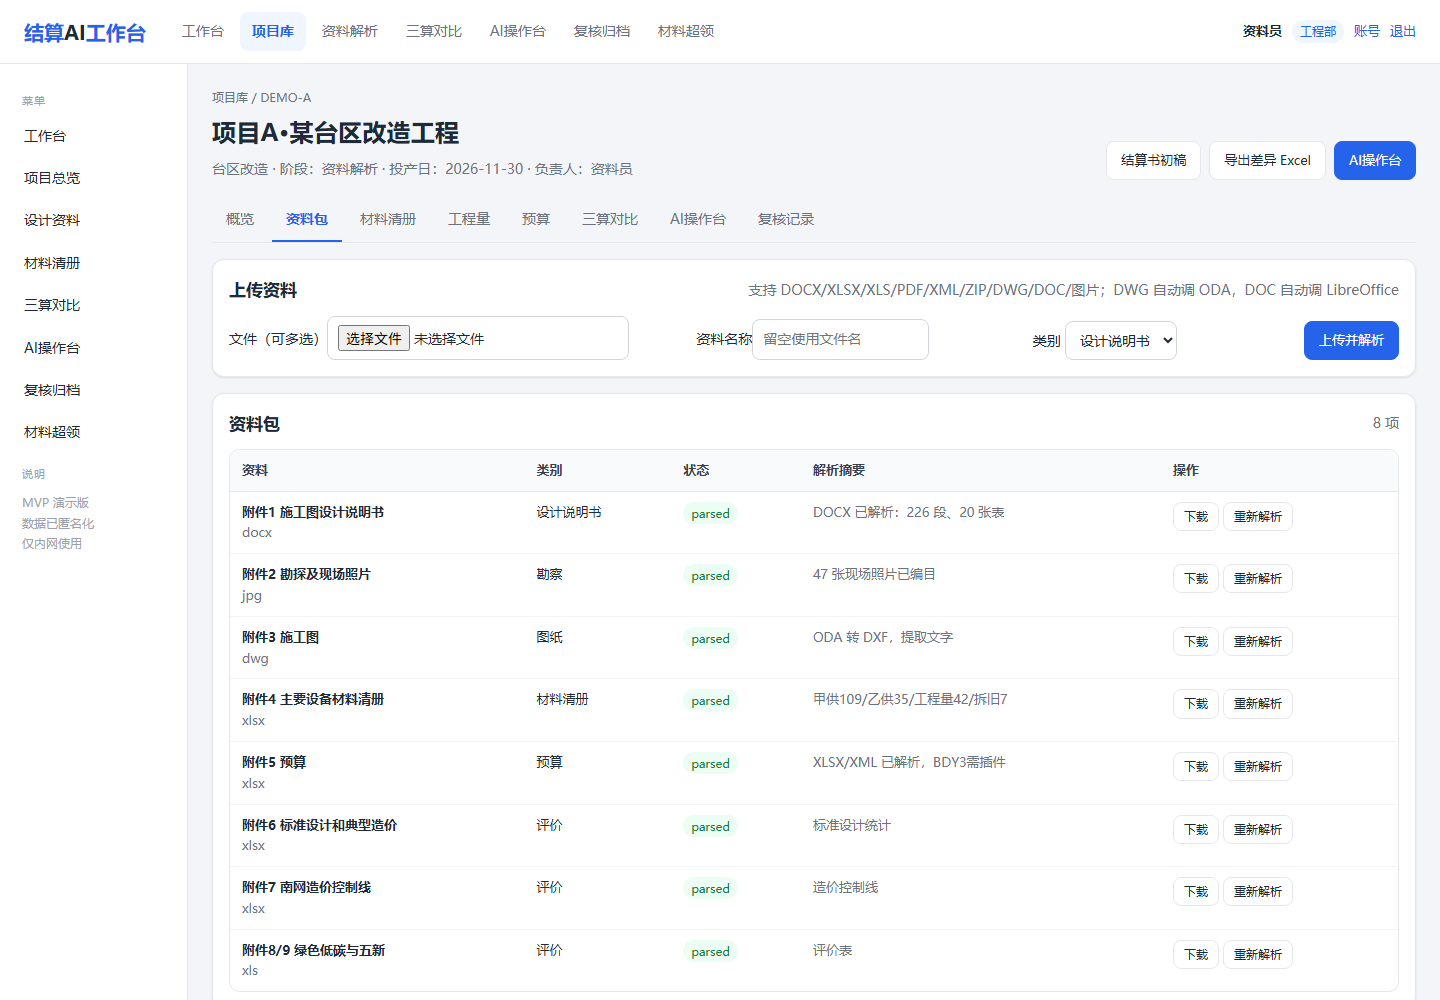
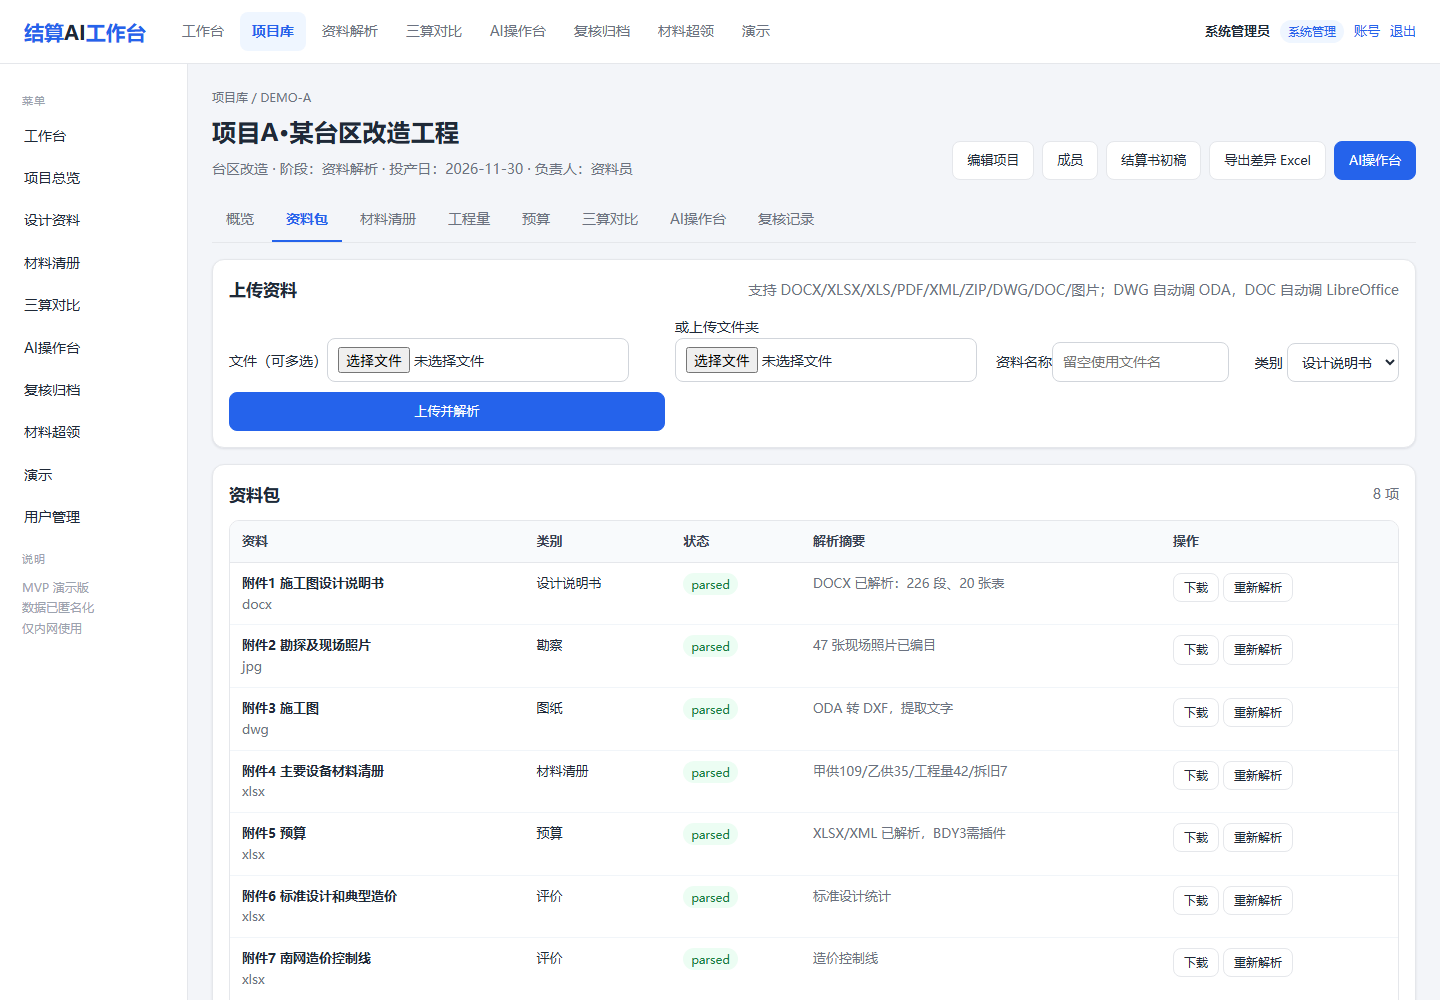
fix(settlement): make the completeness check detailed and support folder upload

diff --git a/apps/settlement-ai-platform/templates/project.html b/apps/settlement-ai-platform/templates/project.html
@@ -66,7 +66,8 @@
 <section class="card">
   <div class="card-head"><h2>上传资料</h2><span class="muted">支持 DOCX/XLSX/XLS/PDF/XML/ZIP/DWG/DOC/图片；DWG 自动调 ODA，DOC 自动调 LibreOffice</span></div>
   <form class="upload-form" method="post" action="/projects/{{ p.id }}/documents" enctype="multipart/form-data">
-    <label>文件（可多选）<input type="file" name="file" multiple required></label>
+    <label>文件（可多选）<input type="file" name="file" multiple></label>
+    <label>或上传文件夹<input type="file" name="folder" webkitdirectory multiple></label>
     <label>资料名称<input name="name" placeholder="留空使用文件名"></label>
     <label>类别
       <select name="category">

diff --git a/apps/settlement-ai-platform/app.py b/apps/settlement-ai-platform/app.py
@@ -228,10 +228,171 @@ def group_issues(rows, key):
     return out
 
 
+def _first_int(text):
+    m = re.search(r"(\d+)", str(text or ""))
+    return int(m.group(1)) if m else None
+
+
+def build_completeness_report(project, profile, docs, materials, boq, budget, compares):
+    """Detailed, deterministic completeness check used when no LLM is configured."""
+    lines = [f"【资料完整性检查】{project['name']}（{project['code']}）", ""]
+    lines.append(f"项目阶段：{project['stage']}｜投产日：{project['t0'] or '未填'}｜检查时间：{now()}")
+    lines.append("")
+
+    expected = [
+        ("附件1", "施工图设计说明书", True),
+        ("附件2", "勘探及现场照片", True),
+        ("附件3", "施工图（DWG）", True),
+        ("附件4", "主要设备材料清册", True),
+        ("附件5", "预算", True),
+        ("附件6", "标准设计和典型造价", False),
+        ("附件7", "南网造价控制线", False),
+        ("附件8", "绿色低碳评价", False),
+        ("附件9", "五新应用评价", False),
+    ]
+    found = {}
+    for prefix, label, required in expected:
+        hit = next((d for d in docs if prefix in (d["name"] or "")), None)
+        if not hit and prefix in ("附件8", "附件9"):
+            hit = next((d for d in docs if "附件8/9" in (d["name"] or "") or "8/9" in (d["name"] or "")), None)
+        found[prefix] = hit
+
+    parsed = sum(1 for d in docs if d["status"] == "parsed")
+    needs = sum(1 for d in docs if d["status"] == "needs_plugin")
+    pending = sum(1 for d in docs if d["status"] == "pending")
+    errors = sum(1 for d in docs if d["status"] == "error")
+    mat_a = sum(1 for m in materials if m["supply"] == "甲供")
+    mat_b = sum(1 for m in materials if m["supply"] == "乙供")
+    budget_total = sum(float(b["amount"] or 0) for b in budget)
+    diff_items = [c for c in compares if c["status"] != "通过"]
+
+    high, mid = [], []
+    for prefix, label, required in expected:
+        d = found[prefix]
+        if not d:
+            (high if required else mid).append((prefix, f"缺少{prefix} {label}", "资料员补齐后重新解析"))
+            continue
+        if d["status"] == "needs_plugin":
+            mid.append((prefix, f"{d['name']} 需要插件：{d['summary'] or ''}", "信息管理员安装插件或改用XLSX/XML导出"))
+        elif d["status"] == "error":
+            high.append((prefix, f"{d['name']} 解析失败：{d['summary'] or ''}", "重新上传或转换格式"))
+        elif d["status"] == "pending":
+            mid.append((prefix, f"{d['name']} 尚未解析", "点击重新解析或上传可读版本"))
+    for key in ("10kV线路", "配变", "低压线路", "拆除"):
+        if not str(profile.get(key) or "").strip():
+            mid.append(("画像", f"项目画像缺少“{key}”", "资料员按设计说明书补录"))
+    if not materials:
+        high.append(("材料", "材料清册为空，无法做材料核对和三算对比", "上传附件4或手工新增后复核"))
+    if not boq:
+        high.append(("工程量", "工程量清单为空，无法生成结算书初稿", "上传附件4工程量清单或手工新增"))
+    if not budget:
+        high.append(("预算", "预算汇总为空，无法做预算/结算对比", "上传附件5预算或手工新增"))
+    if not compares:
+        mid.append(("三算", "尚未建立三算对比", "结算员按设计/预算/结算录入对比项"))
+    elif diff_items:
+        names = "、".join(c["item"] for c in diff_items[:5])
+        mid.append(("三算", f"三算对比有 {len(diff_items)} 项待确认：{names}", "结算员逐条核对原因和依据"))
+    # profile vs imported counts
+    profile_a = _first_int(profile.get("甲供材料"))
+    profile_b = _first_int(profile.get("乙供材料"))
+    profile_q = _first_int(profile.get("工程量清单"))
+    if profile_a is not None and profile_a != mat_a:
+        mid.append(("材料", f"画像写甲供材料 {profile_a} 条，材料库中 {mat_a} 条，需确认是否全量导入", "资料员确认导入范围"))
+    if profile_b is not None and profile_b != mat_b:
+        mid.append(("材料", f"画像写乙供材料 {profile_b} 条，材料库中 {mat_b} 条，需确认是否全量导入", "资料员确认导入范围"))
+    if profile_q is not None and profile_q != len(boq):
+        mid.append(("工程量", f"画像写工程量 {profile_q} 条，工程量库中 {len(boq)} 条，需确认是否全量导入", "资料员确认导入范围"))
+    # budget cross-check
+    m = re.search(r"([0-9]+(?:\.[0-9]+)?)", str(profile.get("预算") or ""))
+    if m and budget_total:
+        try:
+            profile_budget = float(m.group(1)) * 10000
+            if abs(profile_budget - budget_total) / budget_total > 0.01:
+                mid.append(("预算", f"画像预算约 {profile_budget:,.0f} 元，预算库合计 {budget_total:,.0f} 元，差异需确认", "物资/结算员核对预算版本"))
+        except Exception:
+            pass
+    if project["code"].startswith("DEMO") and (profile_a or profile_b or profile_q):
+        lines.append("说明：当前为演示数据，材料/工程量只导入了示例条数；画像中的全量条数与库中条数不一致属正常，真实项目全量导入后应一致。")
+        lines.append("")
+
+    lines.append("一、总体结论")
+    lines.append(f"- 资料 {len(docs)} 项：已解析 {parsed}，需插件 {needs}，待解析 {pending}，失败 {errors}。")
+    lines.append(f"- 材料 {len(materials)} 条（甲供 {mat_a} / 乙供 {mat_b}）；工程量 {len(boq)} 条；预算 {len(budget)} 项，合计 {budget_total:,.0f} 元。")
+    lines.append(f"- 三算对比 {len(compares)} 项，其中 {len(diff_items)} 项待确认。")
+    if high:
+        lines.append(f"- 结论：资料尚不完整，有 {len(high)} 项高优先级问题，暂不建议提交复核。")
+    elif mid:
+        lines.append(f"- 结论：资料基本齐全，可进入三算对比/复核，但有 {len(mid)} 项提醒需处理。")
+    else:
+        lines.append("- 结论：资料齐全，可提交复核。")
+    lines.append("")
+
+    lines.append("二、附件清单检查")
+    for prefix, label, required in expected:
+        d = found[prefix]
+        if not d:
+            lines.append(f"- {prefix} {label}：缺失（{'必需' if required else '建议'}）")
+        elif prefix == "附件9" and "8/9" in (d["name"] or ""):
+            lines.append(f"- 附件9 五新应用评价：已由 {d['name']} 合并覆盖，通过")
+        else:
+            status = {"parsed": "已解析", "needs_plugin": "需插件", "pending": "待解析", "error": "解析失败"}.get(d["status"], d["status"])
+            tag = "通过" if d["status"] == "parsed" else "需处理"
+            lines.append(f"- {d['name']}：{status}，{tag}；{d['summary'] or '无摘要'}")
+    lines.append("")
+
+    lines.append("三、项目画像检查")
+    for key in ("10kV线路", "配变", "低压线路", "拆除", "预算"):
+        lines.append(f"- {key}：{profile.get(key) or '未填'}")
+    lines.append("")
+
+    lines.append("四、数据一致性检查")
+    lines.append(f"- 材料：库中 {len(materials)} 条（甲供 {mat_a} / 乙供 {mat_b}），已导入[{', '.join(m['name'] for m in materials[:3])}{'…' if len(materials) > 3 else ''}]。")
+    lines.append(f"- 工程量：库中 {len(boq)} 条；预算：库中 {len(budget)} 项，合计 {budget_total:,.0f} 元。")
+    if diff_items:
+        for c in diff_items[:6]:
+            lines.append(f"- 三算：{c['item']} 设计 {c['design_qty']}、预算 {c['budget_qty']}、结算 {c['settle_qty']}；原因：{c['reason'] or '未填'}；依据：{c['evidence'] or '未填'}。")
+    else:
+        lines.append("- 三算：暂无需确认的差异项。")
+    lines.append("")
+
+    lines.append("五、问题清单（按优先级）")
+    if not high and not mid:
+        lines.append("- 未发现明显缺项。")
+    for i, (prefix, msg, action) in enumerate(high + mid, 1):
+        level = "高" if (prefix, msg, action) in high else "中"
+        lines.append(f"{i}. 【{level}】{msg}；处理：{action}")
+    lines.append("")
+
+    lines.append("六、建议动作（按顺序）")
+    actions = []
+    if any(x in (d["status"] if d else "") for x in ("pending", "needs_plugin", "error")):
+        actions.append("资料员：先处理待解析/需插件/失败的资料，补齐附件1—5。")
+    if profile_a is not None and profile_a != mat_a or profile_b is not None and profile_b != mat_b:
+        actions.append("资料员/物资员：确认材料清册是否全量导入，补齐甲供/乙供数量。")
+    if not boq or profile_q is not None and profile_q != len(boq):
+        actions.append("资料员：确认工程量清单全量导入，与材料清册勾稽。")
+    if diff_items:
+        actions.append("结算员：逐条核对三算差异，补原因和依据。")
+    if not actions:
+        actions.append("复核人：按复核清单确认后提交复核。")
+    for i, a in enumerate(actions, 1):
+        lines.append(f"{i}. {a}")
+    lines.append("")
+
+    lines.append("七、复核前确认")
+    lines.append("- 项目编码、建设规模、预算金额与设计说明书一致。")
+    lines.append("- 甲供/乙供材料、工程量清单为全量数据，不是示例。")
+    lines.append("- 三算差异均有原因和依据，待确认项已闭环。")
+    return "\n".join(lines)
+
+
 def generate_draft(conn, project, scene):
     profile = {r["key"]: r["value"] for r in conn.execute("SELECT key, value FROM profiles WHERE project_id=?", (project["id"],))}
     docs = conn.execute("SELECT name, status, summary FROM documents WHERE project_id=? ORDER BY id", (project["id"],)).fetchall()
     compares = conn.execute("SELECT * FROM compare_items WHERE project_id=? ORDER BY id", (project["id"],)).fetchall()
+    materials = conn.execute("SELECT supply, name, qty FROM materials WHERE project_id=? ORDER BY id", (project["id"],)).fetchall()
+    boq = conn.execute("SELECT name, unit, qty FROM boq WHERE project_id=? ORDER BY id", (project["id"],)).fetchall()
+    budget = conn.execute("SELECT name, amount FROM budget_items WHERE project_id=? ORDER BY id", (project["id"],)).fetchall()
     pending_docs = [d["name"] for d in docs if d["status"] not in ("parsed",)]
     diff = [c for c in compares if c["status"] != "通过"]
     prompt = (
@@ -242,6 +403,8 @@ def generate_draft(conn, project, scene):
     )
     engine = "规则初稿"
     output = ""
+    if scene == "资料完整性检查":
+        return prompt, build_completeness_report(project, profile, docs, materials, boq, budget, compares), "规则检查"
     base_url = os.environ.get("LLM_BASE_URL", "").rstrip("/")
     api_key = os.environ.get("LLM_API_KEY", "")
     if base_url and api_key:
@@ -270,10 +433,7 @@ def generate_draft(conn, project, scene):
     if not output:
         lines = [f"【{scene}】{project['name']}（{project['code']}）", ""]
         if scene == "资料完整性检查":
-            lines.append(f"资料共 {len(docs)} 项，已解析 {len(docs)-len(pending_docs)} 项，待处理/需插件 {len(pending_docs)} 项。")
-            if pending_docs:
-                lines.append("待处理：" + "、".join(pending_docs))
-            lines.append("建议：先补齐附件3/附件5的插件解析，再提交复核。")
+            lines = [build_completeness_report(project, profile, docs, materials, boq, budget, compares)]
         elif scene == "设计资料解析":
             lines.append("项目画像：" + "；".join(f"{k}={v}" for k, v in profile.items()))
             lines.append(f"预算总额：{money(project['budget_total'])} 元。")
@@ -737,14 +897,18 @@ def project_page(pid: int, request: Request, tab: str = "overview", user=Depends
 
 @app.post("/projects/{pid}/documents")
 def upload_document(
-    pid: int, request: Request, file: list[UploadFile] = File(...), name: str = Form(""), category: str = Form("其他"),
+    pid: int, request: Request, file: list[UploadFile] = File(default=[]), folder: list[UploadFile] = File(default=[]),
+    name: str = Form(""), category: str = Form("其他"),
     user=Depends(current_user), conn=Depends(get_db),
 ):
     if not user:
         return RedirectResponse("/login", status_code=303)
     get_project(conn, pid, user)
+    uploads = list(file or []) + list(folder or [])
+    if not uploads:
+        return RedirectResponse(f"/projects/{pid}?tab=docs&msg=请选择文件或文件夹", status_code=303)
     results = []
-    for f in file:
+    for f in uploads:
         raw = f.file.read()
         safe = re.sub(r"[^\w\u4e00-\u9fff.\-]+", "_", f.filename or "upload")
         dest_dir = UPLOAD_DIR / f"project_{pid}"
@@ -752,7 +916,7 @@ def upload_document(
         dest = dest_dir / f"{uuid.uuid4().hex[:8]}_{safe}"
         dest.write_bytes(raw)
         parsed = parse_file(str(dest), f.filename)
-        doc_name = (name if len(file) == 1 and name else f.filename) or safe
+        doc_name = (name if len(uploads) == 1 and name else Path(f.filename or safe).name) or safe
         cur = conn.execute(
             "INSERT INTO documents (project_id, name, category, filename, path, size, status, summary, parsed_json, uploaded_by, uploaded_at) VALUES (?,?,?,?,?,?,?,?,?,?,?)",
             (pid, doc_name, category, f.filename, str(dest), len(raw), parsed["status"], parsed["summary"], json.dumps(parsed, ensure_ascii=False), user["id"], now()),
@@ -764,7 +928,7 @@ def upload_document(
     ok = sum(1 for r in results if r[0] == "parsed")
     plugin = sum(1 for r in results if r[0] == "needs_plugin")
     err = sum(1 for r in results if r[0] == "error")
-    msg = f"上传 {len(file)} 个文件：已解析 {ok}，需插件 {plugin}，失败 {err}"
+    msg = f"上传 {len(uploads)} 个文件：已解析 {ok}，需插件 {plugin}，失败 {err}"
     if any(r[1] for r in results):
         msg += "；结构化数据已导入"
     return RedirectResponse(f"/projects/{pid}?tab=docs&msg={msg}", status_code=303)

diff --git a/apps/settlement-ai-platform/tests/test_app.py b/apps/settlement-ai-platform/tests/test_app.py
@@ -247,3 +247,31 @@ def test_demo_page_public():
     assert "5 分钟演示" in r.text
     assert "三算对比" in r.text
 
+def test_completeness_report_is_detailed():
+    login("ziliao")
+    r = client.post("/projects/1/ai", data={"scene": "资料完整性检查"}, follow_redirects=False)
+    assert r.status_code == 303
+    r = client.get("/projects/1?tab=ai")
+    assert r.status_code == 200
+    assert "附件清单检查" in r.text
+    assert "问题清单" in r.text
+    assert "建议动作" in r.text
+    assert "总体结论" in r.text
+
+
+def test_folder_upload(tmp_path):
+    from docx import Document
+    login("ziliao")
+    f = tmp_path / "folder-demo.docx"
+    d = Document(); d.add_paragraph("文件夹上传测试，项目编码 DEMO-FOLDER。"); d.save(f)
+    with open(f, "rb") as fh:
+        r = client.post(
+            "/projects/1/documents",
+            data={"name": "", "category": "其他"},
+            files={"folder": ("设计资料/附件1/folder-demo.docx", fh, "application/vnd.openxmlformats-officedocument.wordprocessingml.document")},
+            follow_redirects=False,
+        )
+    assert r.status_code == 303
+    r = client.get("/projects/1?tab=docs")
+    assert "folder-demo.docx" in r.text
+

diff --git a/apps/settlement-ai-platform/README.md b/apps/settlement-ai-platform/README.md
@@ -5,7 +5,7 @@
 ## 功能
 
 - 工作台：项目总览、待解析、风险提醒、待办节点；支持项目新建/编辑。
-- 资料包：批量上传 DOCX/XLSX/XLS/PDF/XML/ZIP/DWG/DOC/图片，自动解析并记录状态；支持原文件下载。
+- 资料包：批量上传或整文件夹上传（Edge/Chrome）DOCX/XLSX/XLS/PDF/XML/ZIP/DWG/DOC/图片，自动解析并记录状态；支持原文件下载。
 - 设计解析：解析后自动导入项目画像、材料清册（甲供/乙供）、工程量、预算汇总；材料/工程量/预算可手工新增、删除、导出 Excel。
 - 三算对比：设计量、预算量、结算量同表对比，可更新结算量并导出 CSV/Excel。
 - 结算书初稿：按项目画像、材料、工程量、三算对比和预算生成 Excel 初稿，供人工复核。
@@ -113,4 +113,4 @@ docker compose up -d --build
 python -m pytest -q
 ```
 
-当前 14 个测试通过。
+当前 16 个测试通过。
